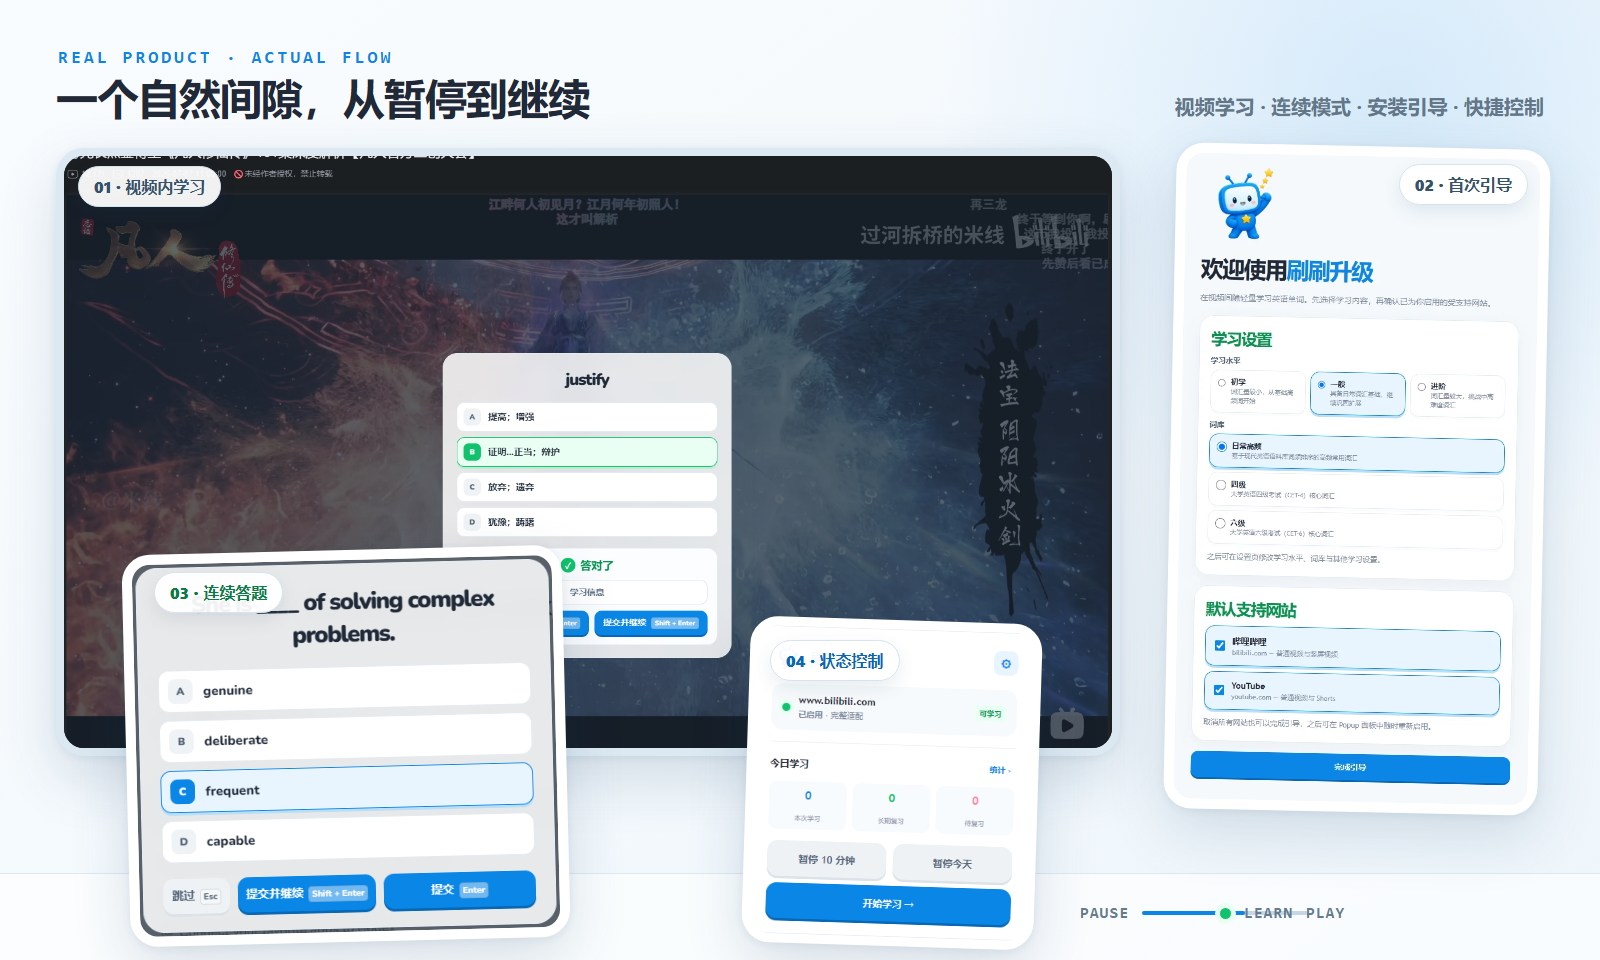
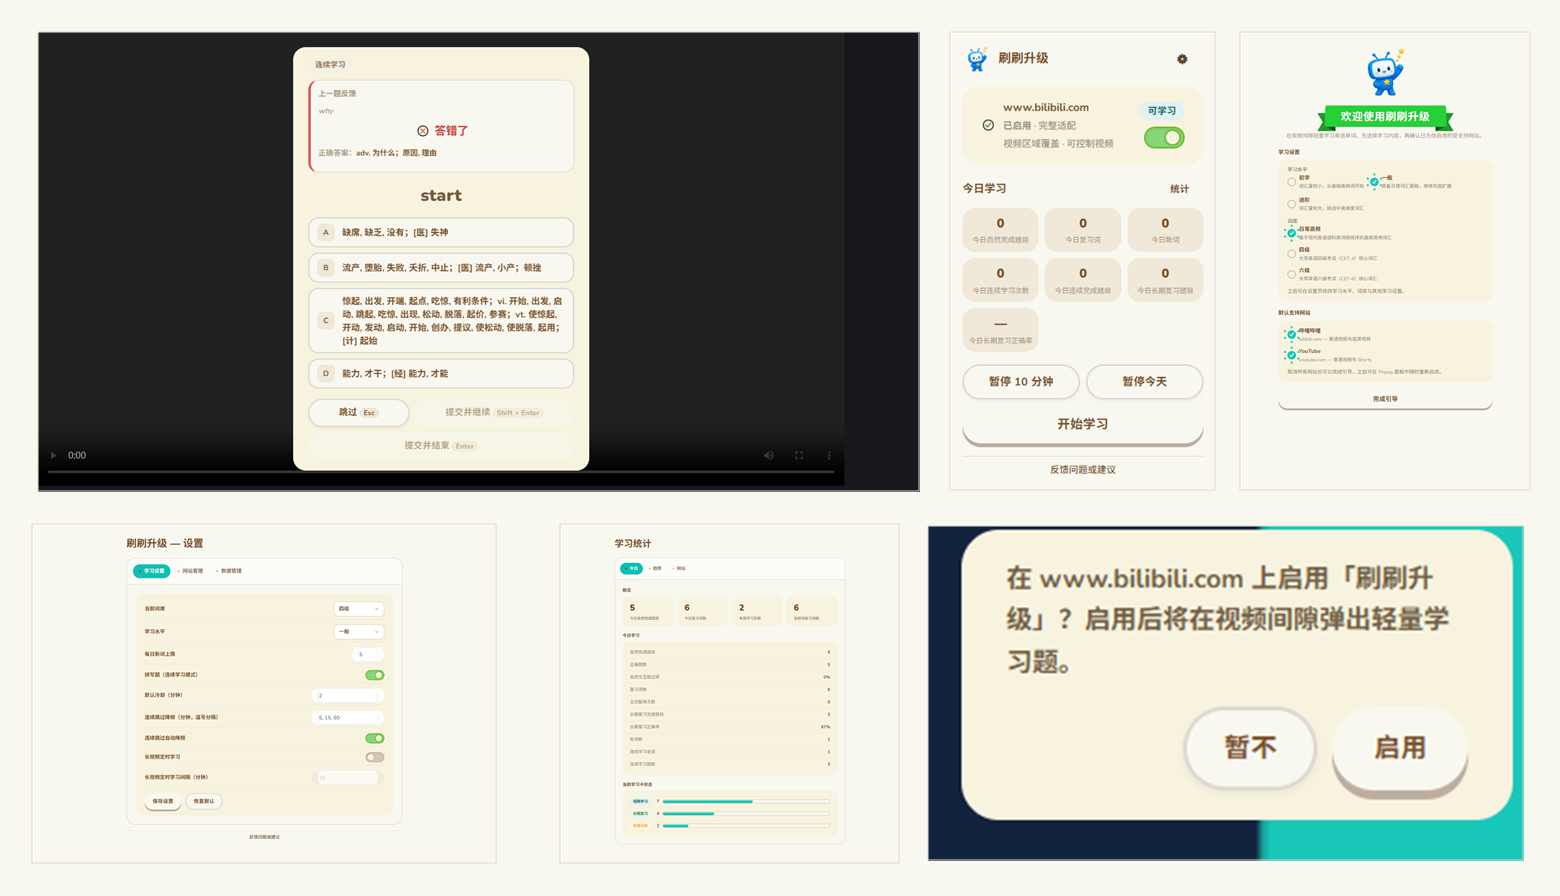
更新 README 界面截图与插画，补充 Beta 矩阵 UI 验收项（工单 #46）

diff --git a/docs/beta-acceptance-matrix.md b/docs/beta-acceptance-matrix.md
@@ -39,6 +39,10 @@ npm run test:e2e     # 自动先构建 chrome-mv3，再运行 Playwright
 
 以下由 `npm run test:e2e` 自动验证，人工无需重复；作为「已验证」证据引用。
 
+UI 原版视觉迁移（Issue #36）的阶段证据、体积与未验证项见
+[ui-migration-evidence.md](./ui-migration-evidence.md)；其中截图采集脚本默认跳过，
+用 `CAPTURE_*=1` 运行，仅作证据、不参与像素比对。
+
 | 用例文件 | 覆盖点 |
 | --- | --- |
 | `e2e/extension.spec.ts` | MV3 扩展加载、service worker 注册、manifest 名称/版本/四档图标、图标资源随包 |
@@ -46,6 +50,9 @@ npm run test:e2e     # 自动先构建 chrome-mv3，再运行 Playwright
 | `e2e/options.spec.ts` | 设置修改→保存→刷新持久化（经 background + IndexedDB 端到端）、反馈入口指向 GitHub Issues |
 | `e2e/stats.spec.ts` | 统计页渲染且无页面错误 |
 | `e2e/site-scenarios.spec.ts` | 站点相关场景占位（skip），逐项指向下方人工矩阵 |
+| `e2e/overlay-island-migration.spec.ts` | 视频遮罩（合成 B 站页、真实 MV3 产物）：Shadow DOM 原版计算样式、字体本地加载、16:9/9:16/小窗布局与卡片内滚动、Escape 退出、无宿主页样式泄漏 |
+| `e2e/island-notices.spec.ts` | 启用提示与播放恢复提示：原版计算样式、字体本地加载、启用/暂不/已启用交互与拒绝计数、提示不拦截播放器、6 秒消失 |
+| `e2e/migration-*.spec.ts`（默认跳过） | 各阶段界面截图采集（`CAPTURE_M1/M2/M3A/M3B/M3C/M5/M6A=1` 运行），仅作证据 |
 
 **E2E 未覆盖、需人工的原因**：无头 E2E 无法可靠驱动浏览器原生权限对话框，也不宜依赖
 第三方线上站点（Bilibili/YouTube）与真实视频/直播/广告；这些均在下方矩阵人工记录。
@@ -65,6 +72,8 @@ npm run test:e2e     # 自动先构建 chrome-mv3，再运行 Playwright
 | G5 | 视频区域遮罩 | 支持站点普通视频 | 触发学习 | 遮罩覆盖视频区域，答/跳后从原进度继续 | ☐ | ☐ | |
 | G6 | 全网页遮罩 | basic-web 自定义站点 | 触发学习 | 全页遮罩，完成后恢复页面 | ☐ | ☐ | |
 | G7 | 无视频主动学习 | 支持站点无视频页 | Popup「开始学习」 | 进入连续学习，无需视频 | ☐ | ☐ | |
+| G8 | 统一原版视觉 | 扩展页面（Popup/设置/统计/引导）与支持站点视频页 | 逐页打开查看，并触发一次视频遮罩 | 全部界面为 Animal Island 原版视觉（奶油底、薄荷主色、胶囊控件、暖棕文字），无旧蓝粉元素残留 | ☐ | ☐ | |
+| G9 | 字体离线加载 | 支持站点视频页与扩展页面 | 打开扩展页面与遮罩（可在 DevTools 勾选 Offline 后刷新） | Nunito 与 Noto Sans SC 均由扩展本地加载，无 Google Fonts/CDN 等远程字体请求 | ☐ | ☐ | |
 
 ---
 

diff --git a/README.md b/README.md
@@ -16,10 +16,10 @@
 当你进入新视频，刷刷升级会暂停主视频并盖上一道轻量学习题。答完或跳过后，视频从原进度继续；如果你想多学几题，也可以主动进入连续学习。
 
 <p align="center">
-  <img src="./docs/assets/readme/showcase.png" width="100%" alt="刷刷升级真实产品界面合集：视频内学习、安装引导、连续答题和插件状态控制">
+  <img src="./docs/assets/readme/showcase.png" width="100%" alt="刷刷升级产品界面合集：视频内学习与连续答题、首次引导、设置页、学习统计、插件状态控制与启用提示">
 </p>
 
-<p align="center"><sub>真实运行界面：视频内学习、连续答题、首次引导与快捷控制。</sub></p>
+<p align="center"><sub>界面合集：视频内学习与连续答题、首次引导、设置页、学习统计、插件状态控制与启用提示。所有画面来自真实构建产物截图；视频场景为合成测试页。</sub></p>
 
 ## 学习被放在间隙里，而不是待办清单里
 
@@ -134,4 +134,4 @@ npm run build        # Chrome 生产构建
 
 ## License
 
-[Apache License 2.0](./LICENSE)
+本项目以 [Apache License 2.0](./LICENSE) 发布。第三方组件与字体（animal-island-ui、naive-icons、Nunito / Noto Sans SC）的版权与许可声明见 [THIRD-PARTY-NOTICES.md](./THIRD-PARTY-NOTICES.md)。
